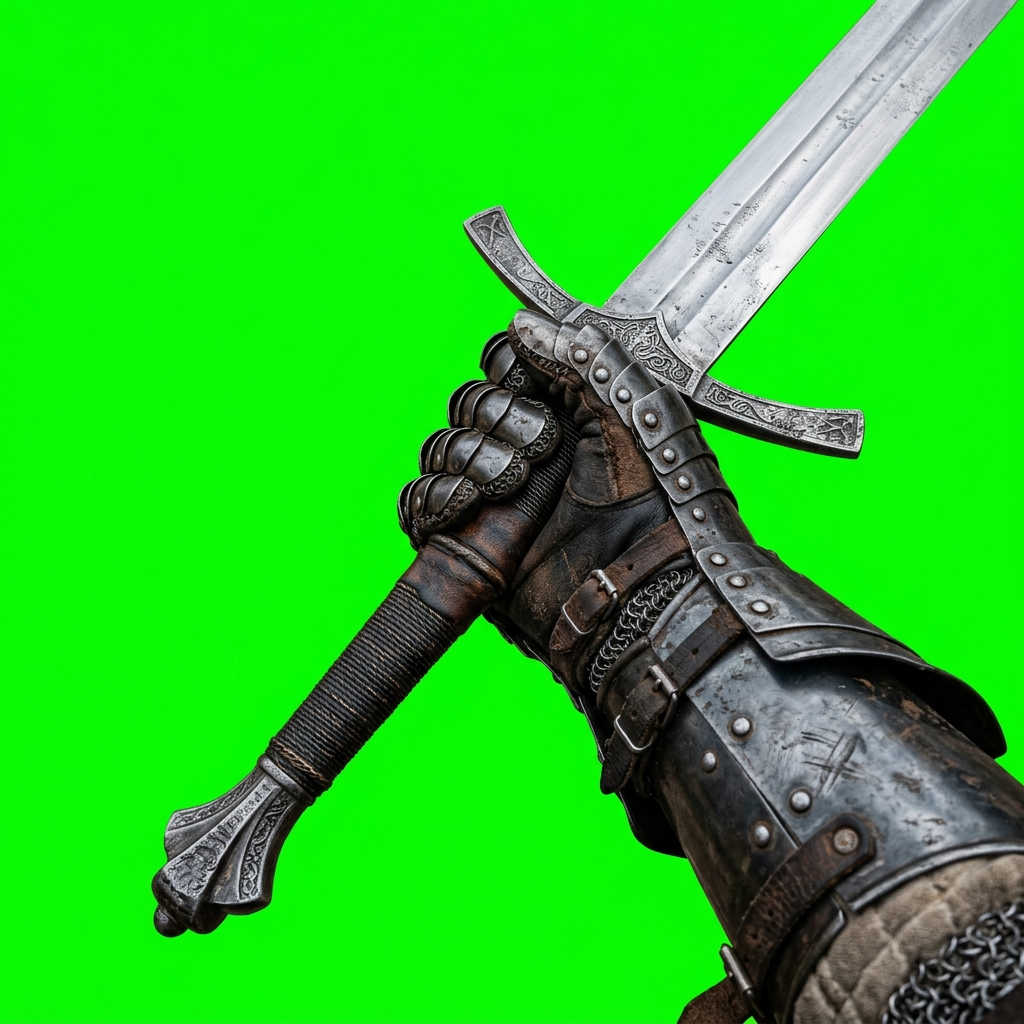
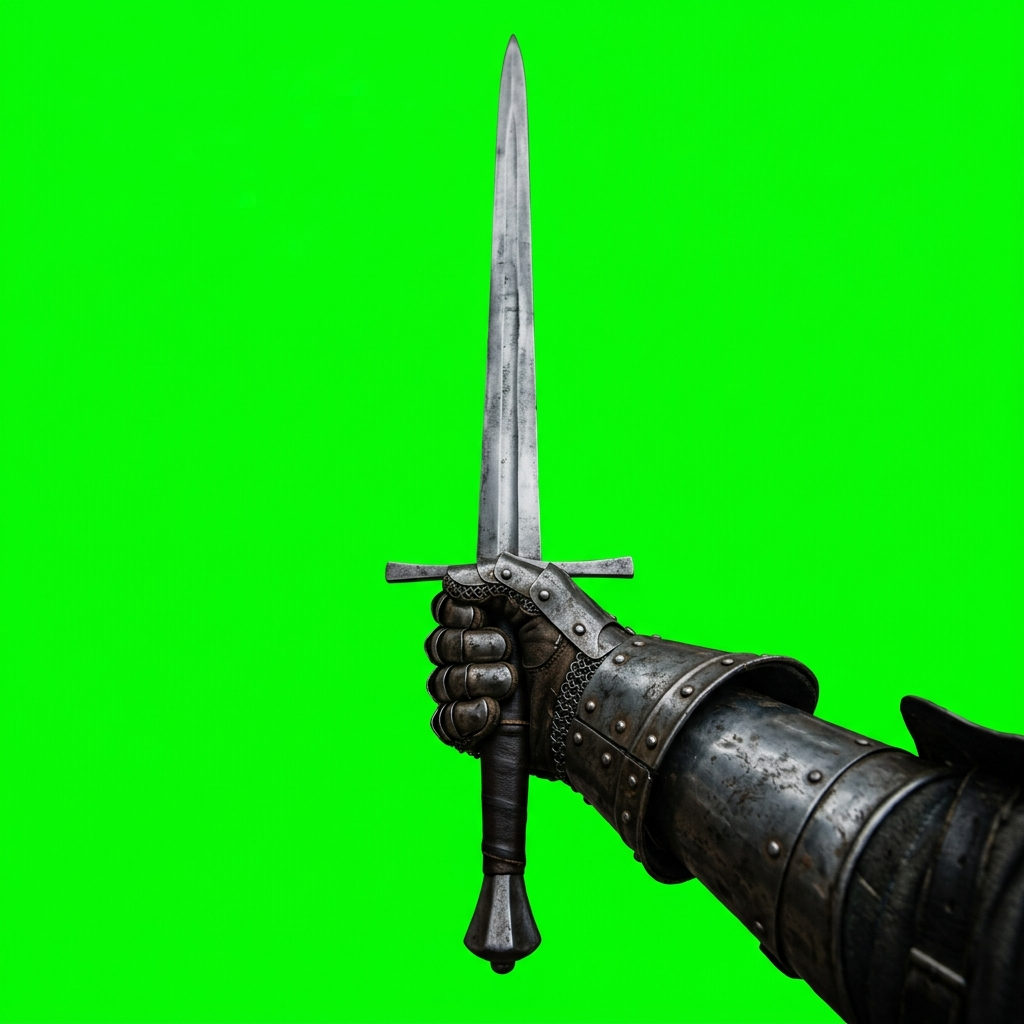
fix: generate sword pointing perfectly straight vertically so the whole blade is visible

diff --git a/index.html b/index.html
@@ -307,6 +307,6 @@
     <audio id="musicPlayer" loop preload="none">
       <source src="./assets/hide-cs01-slowed.mp3" type="audio/mpeg" />
     </audio>
-    <script type="module" src="./js/main.js?v=25"></script>
+    <script type="module" src="./js/main.js?v=26"></script>
   </body>
 </html>

diff --git a/js/main.js b/js/main.js
@@ -20,7 +20,7 @@ import {
 } from "./combat.js";
 import { equipPendingLoot, sellPendingLoot, rerollPendingLoot } from "./loot.js";
 import { audio } from "./audio.js";
-import { bindElements, render, els, setCombatStatus, setSpeedMultiplier, triggerHeroAttackAnim } from "./render.js?v=25";
+import { bindElements, render, els, setCombatStatus, setSpeedMultiplier, triggerHeroAttackAnim } from "./render.js?v=26";
 import { getSpeedMultiplier } from "./fx.js";
 import { getAliveEnemies } from "./state.js";
 import { checkMilestones } from "./milestones.js";

diff --git a/js/render.js b/js/render.js
@@ -354,7 +354,7 @@ function renderHands() {
     els.realLeftArm.style.display = 'block';
   }
   // Weapon and Offhand
-  const v = 25;
+  const v = 26;
   
   if (els.realRightArm) {
     els.realRightArm.style.display = 'block';